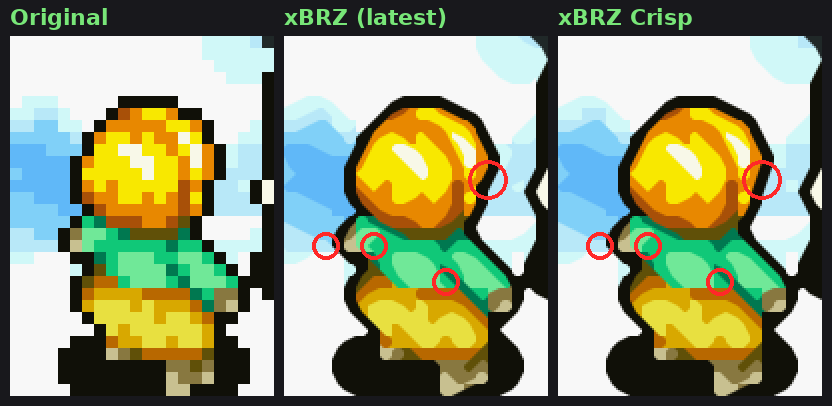
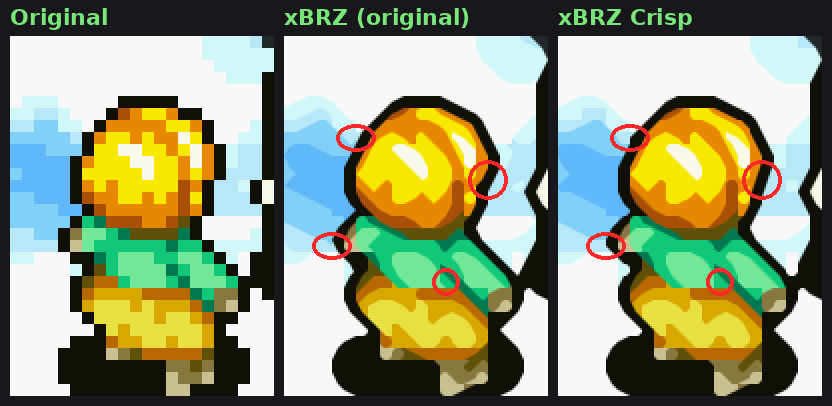
Compare with the original C++ xBRZ: images and comparator now show Zenju's xBRZ 1.9 (default settings) as xBRZ (original), the comparator also offers libretro's shader as xBRZ (libretro), and the README and page explain that xBRZ Crisp is built on libretro's xbrz-freescale-multipass, not on the C++ 

diff --git a/docs/index.html b/docs/index.html
@@ -121,8 +121,9 @@ ol { margin: 0; padding-left: 1.3em; display: grid; gap: 6px; }
   <header class="prose">
     <h1>xBRZ Crisp</h1>
     <p class="lede">xBRZ smooths every corner it finds, so soft shading and textures melt into blobs. xBRZ Crisp only rounds a corner when its two colors are clearly different. Outlines, text and sprites are smoothed as in xBRZ, and grass, foliage and stone keep the pixels the artists drew.</p>
+    <p class="muted"><b>Which xBRZ?</b> xBRZ is <a href="https://sourceforge.net/projects/xbrz/">Zenju's C++ scaler</a>; this page shows it as xBRZ (original). xBRZ Crisp is not built on the C++ code: it is a RetroArch shader built on libretro's <code>xbrz-freescale-multipass</code>, a separate GLSL and slang shader that follows the xBRZ idea with its own code and thresholds. That libretro shader already includes some of xBRZ Crisp's improvements, and you can pick it here too, as xBRZ (libretro).</p>
     <p><a href="#how">See what Crisp adds on top of xBRZ</a></p>
-    <p class="muted">Drag the line to compare. All frames are Game Boy Advance screens at 6x, rendered with the RetroArch shader code. Integer (integer scaling) shows the original pixels. MMPX Adv (MMPX Advanced) is the libretro scalenx shader at 2x, enlarged 3x, and ScaleFX is the libretro scalefx-9x preset at 9x, scaled down to 6x by area averaging. xBRZ (latest) is the current libretro <code>xbrz-freescale-multipass</code>, which already includes improvements that came from xBRZ Crisp.</p>
+    <p class="muted">Drag the line to compare. All frames are Game Boy Advance screens at 6x. xBRZ (original) is Zenju's C++ xBRZ 1.9 at its default settings; the others are rendered with the RetroArch shader code. Integer (integer scaling) shows the original pixels. MMPX Adv (MMPX Advanced) is the libretro scalenx shader at 2x, enlarged 3x, and ScaleFX is the libretro scalefx-9x preset at 9x, scaled down to 6x by area averaging. xBRZ (libretro) is the current libretro <code>xbrz-freescale-multipass</code>, which already includes improvements that came from xBRZ Crisp.</p>
   </header>
 
   <section class="controls" aria-label="Comparison settings">
@@ -138,7 +139,8 @@ ol { margin: 0; padding-left: 1.3em; display: grid; gap: 6px; }
         <button type="button" data-v="original">Integer</button>
         <button type="button" data-v="mmpx">MMPX Adv</button>
         <button type="button" data-v="scalefx">ScaleFX</button>
-        <button type="button" data-v="xbrz">xBRZ (latest)</button>
+        <button type="button" data-v="xbrzcpp">xBRZ (original)</button>
+        <button type="button" data-v="xbrz">xBRZ (libretro)</button>
         <button type="button" data-v="crisp">xBRZ Crisp</button>
       </div>
       <div class="group minc"><span>Crisp contrast</span>
@@ -163,7 +165,8 @@ ol { margin: 0; padding-left: 1.3em; display: grid; gap: 6px; }
         <button type="button" data-v="original">Integer</button>
         <button type="button" data-v="mmpx">MMPX Adv</button>
         <button type="button" data-v="scalefx">ScaleFX</button>
-        <button type="button" data-v="xbrz">xBRZ (latest)</button>
+        <button type="button" data-v="xbrzcpp">xBRZ (original)</button>
+        <button type="button" data-v="xbrz">xBRZ (libretro)</button>
         <button type="button" data-v="crisp">xBRZ Crisp</button>
       </div>
       <div class="group minc"><span>Crisp contrast</span>
@@ -215,7 +218,7 @@ ol { margin: 0; padding-left: 1.3em; display: grid; gap: 6px; }
     </div>
   </div>
   <div class="peekbar"><button class="peek" id="peek" type="button" aria-pressed="false" title="Hold to see the original pixels (or hold the O key)">Hold for Integer</button></div>
-  <p class="hint" id="info">Tip: from 2× to 4× the view scrolls; the line stays where you put it. Arrow keys move the line when it has focus. "Mark differences" outlines in red every spot where the two sides differ. Hold the button under the picture (or the O key) to see the original pixels. xBRZ (latest) is the current libretro <code>xbrz-freescale-multipass</code>, which includes the port fixes and thresholds contributed by xBRZ Crisp since October 20, 2026 (tolerance 15, steep 3.2, dominant 3.8).</p>
+  <p class="hint" id="info">Tip: from 2× to 4× the view scrolls; the line stays where you put it. Arrow keys move the line when it has focus. "Mark differences" outlines in red every spot where the two sides differ. Hold the button under the picture (or the O key) to see the original pixels. xBRZ (original) is Zenju's C++ xBRZ. xBRZ (libretro) is the current libretro <code>xbrz-freescale-multipass</code>, which includes the port fixes and thresholds contributed by xBRZ Crisp since October 20, 2026 (tolerance 15, steep 3.2, dominant 3.8; the C++ xBRZ uses 30, 2.4 and 3.6).</p>
 
   <section class="prose">
     <h2>Presets</h2>
@@ -242,51 +245,52 @@ ol { margin: 0; padding-left: 1.3em; display: grid; gap: 6px; }
       <tbody>
         <tr><td class="mono">XBRZ_MINC</td><td class="num">20</td><td>Minimum color contrast (x/255) for a corner to be rounded. 0 turns it off (the tolerance and steep thresholds below still apply).</td></tr>
         <tr><td class="mono">XBRZ_DIAG</td><td class="num">100</td><td>Maximum color distance (x/255) between the two colors a cut would join. Above it, the corner stays square. 0 turns it off.</td></tr>
-        <tr><td class="mono">XBRZ_TOL</td><td class="num">15</td><td>Equal color tolerance. The reference C++ xBRZ uses 30.</td></tr>
-        <tr><td class="mono">XBRZ_STEEP</td><td class="num">3.2</td><td>Steep and shallow line threshold. The reference C++ xBRZ uses 2.2, which turns 1-pixel steps into slopes; 3.2 keeps letters and 1-pixel details closer to the original.</td></tr>
-        <tr><td class="mono">XBRZ_DOM</td><td class="num">3.8</td><td>Dominant direction threshold. The reference C++ xBRZ uses 3.6; 3.8 keeps small corners close to square instead of cutting them into long tips.</td></tr>
+        <tr><td class="mono">XBRZ_TOL</td><td class="num">15</td><td>Equal color tolerance. The original C++ xBRZ uses 30.</td></tr>
+        <tr><td class="mono">XBRZ_STEEP</td><td class="num">3.2</td><td>Steep and shallow line threshold. The original C++ xBRZ uses 2.4 (2.2 before version 1.9), which turns more 1-pixel steps into slopes; 3.2 keeps letters and 1-pixel details closer to the original.</td></tr>
+        <tr><td class="mono">XBRZ_DOM</td><td class="num">3.8</td><td>Dominant direction threshold. The original C++ xBRZ uses 3.6; 3.8 keeps small corners close to square instead of cutting them into long tips.</td></tr>
       </tbody>
     </table>
   </div>
 
   <section class="prose" id="how">
     <h2>What Crisp adds on top of xBRZ</h2>
+    <p class="muted">The pictures show the original C++ xBRZ. xBRZ Crisp runs the same corner test as xBRZ, with the thresholds listed under Parameters, and then adds the vetoes below.</p>
     <p>xBRZ scales pixel art by asking one question at every corner of every pixel: is this the corner of a shape? If the answer is yes, it cuts the corner with a neighbor's color, and a staircase of pixels becomes a smooth line. That works beautifully on outlines and text. Its weakness is that it says yes too often, so shading, textures and faces get shapes the artist never drew.</p>
     <p>xBRZ Crisp keeps every answer xBRZ gives and adds a few vetoes. A vetoed corner simply stays square, the way the artist drew it. Nothing is blurred and no new colors are made.</p>
 
     <h3>1. Soft shading is not a shape</h3>
-    <figure><img src="img/explain/contrast.png" alt="Ivy in Tales of Phantasia: original, xBRZ (latest) and xBRZ Crisp" loading="lazy"><figcaption>Tales of Phantasia, ivy on a wall. Red circles mark some of the spots where xBRZ and Crisp differ.</figcaption></figure>
+    <figure><img src="img/explain/contrast.png" alt="Ivy in Tales of Phantasia: original, xBRZ (original) and xBRZ Crisp" loading="lazy"><figcaption>Tales of Phantasia, ivy on a wall. Red circles mark some of the spots where xBRZ and Crisp differ.</figcaption></figure>
     <p>In grass, leaves and stone, neighboring pixels differ by only a few shades. xBRZ reads each of those small steps as an edge and rounds it, so the texture melts into wavy blobs. Crisp measures how different the two colors of each corner are (a YCbCr distance out of 255) and leaves the corner square below <code>XBRZ_MINC</code>. Real edges, like outlines, are far above the limit and stay smooth. A corner just below the limit is still rounded when the corners on both sides of it along the same diagonal are, so a diagonal edge has no tooth where its contrast dips for a pixel. Where a line crosses an antialiasing pixel on a strong edge, like the edge of a roof in Golden Sun, both halves of the pixel are cut as in xBRZ, so the pixel becomes part of the diagonal instead of a notch in it.</p>
-    <figure><img src="img/explain/contrast-steps.png" alt="Golden Sun grass: original, xBRZ (latest), Crisp 10, 20 and 30" loading="lazy"><figcaption>Golden Sun, village grass at the three presets.</figcaption></figure>
+    <figure><img src="img/explain/contrast-steps.png" alt="Golden Sun grass: original, xBRZ (original), Crisp 10, 20 and 30" loading="lazy"><figcaption>Golden Sun, village grass at the three presets.</figcaption></figure>
     <p>This limit is the one dial that sets the look: 10 stays closest to xBRZ, 30 keeps the most texture, and 20, the default, sits in between. Up to 20, each step keeps more of the original pixels for little loss of smoothness. Past it, smooth antialiased shapes start to lose more.</p>
 
     <h3>2. Different colors are not joined</h3>
-    <figure><img src="img/explain/diagonal.png" alt="A villager's scarf in Golden Sun: original, xBRZ (latest) and xBRZ Crisp" loading="lazy"><figcaption>Golden Sun, a villager's face and scarf.</figcaption></figure>
+    <figure><img src="img/explain/diagonal.png" alt="A villager's scarf in Golden Sun: original, xBRZ (original) and xBRZ Crisp" loading="lazy"><figcaption>Golden Sun, a villager's face and scarf.</figcaption></figure>
     <p>Cutting a corner joins its two diagonal neighbors into one line. That is right when they share a color, as along a sloped outline. When they are very different, like a purple scarf next to skin, the corner is a meeting point of three colors, not a line, and xBRZ pulls one color into the other: the scarf runs into the face and the hair into the scarf. Crisp only joins diagonal neighbors whose colors are within <code>XBRZ_DIAG</code> (100) of each other.</p>
 
     <h3>3. Dark pixels keep their shape</h3>
-    <figure><img src="img/explain/dark.png" alt="A face in Final Fantasy Tactics Advance: original, xBRZ (latest) and xBRZ Crisp" loading="lazy"><figcaption>Final Fantasy Tactics Advance, eyes under a hood.</figcaption></figure>
+    <figure><img src="img/explain/dark.png" alt="A face in Final Fantasy Tactics Advance: original, xBRZ (original) and xBRZ Crisp" loading="lazy"><figcaption>Final Fantasy Tactics Advance, eyes under a hood.</figcaption></figure>
     <p>Eyes, pupils and outlines are often a single dark pixel wide, and that pixel is what we read as the shape. Where a sloped line would shave a dark pixel with a lighter color, at a meeting of different colors, Crisp keeps the dark pixel whole. The eyes stay the straight strokes the artist drew instead of being rounded into drops.</p>
 
     <h3>4. Lines end the way they were drawn</h3>
-    <figure><img src="img/explain/stripes.png" alt="Harry's robe in Harry Potter: Prisoner of Azkaban: original, xBRZ (latest) and xBRZ Crisp" loading="lazy"><figcaption>Harry Potter: Prisoner of Azkaban, the red trim of Harry's robe.</figcaption></figure>
+    <figure><img src="img/explain/stripes.png" alt="Harry's robe in Harry Potter: Prisoner of Azkaban: original, xBRZ (original) and xBRZ Crisp" loading="lazy"><figcaption>Harry Potter: Prisoner of Azkaban, the red trim of Harry's robe.</figcaption></figure>
     <p>Robes, health bars, frames and windows are built from straight 1-pixel lines. xBRZ rounds their ends and bends them where they meet another line. Crisp keeps a corner square when its blend color runs straight on, and stacked stripes that end together all end square, so the trim stays straight and the collar keeps its shape. A short stripe whose end meets a line running on, like a dark blue line in Minish Cap, lets that line close as in xBRZ.</p>
-    <figure><img src="img/explain/outline.png" alt="A character in Final Fantasy Tactics Advance: original, xBRZ (latest) and xBRZ Crisp" loading="lazy"><figcaption>Final Fantasy Tactics Advance, a character seen from behind.</figcaption></figure>
+    <figure><img src="img/explain/outline.png" alt="A character in Final Fantasy Tactics Advance: original, xBRZ (original) and xBRZ Crisp" loading="lazy"><figcaption>Final Fantasy Tactics Advance, a character seen from behind.</figcaption></figure>
     <p>The vetoes never cut a line short. A blocked corner is still cut when the next corner along the same diagonal is cut, so diagonal lines are drawn to their end, and between two close inner tones the cut runs on up to the dark outline, which stays whole. Where the artist drew a 45-degree diagonal of one color up to a straight line, like a lock of hair or the corner of a fence post, the corner is rounded as in xBRZ, unless that would bend a straight line or stretch a lone dot such as an eye. A thin light stroke that runs on along the diagonal, like the white strokes of letters or a ring with gray antialiasing, is rounded as in xBRZ too, so letters have no square joints.</p>
 
     <h3>5. The artist's antialiasing stays</h3>
-    <figure><img src="img/explain/antialias.png" alt="Yellow hair with a dark outline in Final Fantasy Tactics Advance: original, xBRZ (latest) and xBRZ Crisp" loading="lazy"><figcaption>Final Fantasy Tactics Advance, yellow hair with a dark outline.</figcaption></figure>
+    <figure><img src="img/explain/antialias.png" alt="Yellow hair with a dark outline in Final Fantasy Tactics Advance: original, xBRZ (original) and xBRZ Crisp" loading="lazy"><figcaption>Final Fantasy Tactics Advance, yellow hair with a dark outline.</figcaption></figure>
     <p>Many sprites already have hand-placed in-between pixels that soften a corner, like the dark orange pixels between this black outline and the yellow hair. When one of a corner's colors sits between the other two, Crisp treats it as the artist's antialiasing and uses a stricter limit (92), so xBRZ does not round the same corner a second time. When that in-between pixel is a single step on a diagonal edge, with the far color wrapping around it and the pixel's own color running on along the cut, the corner is rounded as in xBRZ, so shaded edges like Soma's cape in Castlevania run on to their end. A diagonal that ends on a straight edge, like the tip of a lock of Link's hair, is also closed as in xBRZ.</p>
 
     <h3>6. Steps are drawn straight</h3>
-    <figure><img src="img/explain/steps.png" alt="Golden Sun italic dialog text and a rail along a building: original, xBRZ (latest) and xBRZ Crisp" loading="lazy"><figcaption>Golden Sun, italic dialog text (top), and a rail along a building (bottom).</figcaption></figure>
+    <figure><img src="img/explain/steps.png" alt="Golden Sun italic dialog text and a rail along a building: original, xBRZ (original) and xBRZ Crisp" loading="lazy"><figcaption>Golden Sun, italic dialog text (top), and a rail along a building (bottom).</figcaption></figure>
     <p>xBRZ draws only two slopes, 45 degrees and 2:1. A line the artist drew with longer steps, like the stems of Golden Sun's italic letters, a rail or the edge of a roof, comes out bent at every step, and the two sides of a 1-pixel stroke can get different slopes, so the stroke wobbles. Where an edge between clearly different colors climbs in regular steps of 2 to 6 pixels, Crisp cuts each step with one line of the steps' own slope (2:1, 3:1 or 4:1), and the pixel at the thin end of a long step gets a sliver of the same line. Both sides of a stroke run parallel, and a letter's dark shadow runs parallel to its letter. Curves, irregular steps and low-contrast edges like water and wood keep xBRZ's lines.</p>
 
     <h3>What does not change</h3>
-    <figure><img src="img/explain/text.png" alt="Spell menu text in Harry Potter: Prisoner of Azkaban: original, xBRZ (latest) and xBRZ Crisp" loading="lazy"><figcaption>Harry Potter: Prisoner of Azkaban, spell menu.</figcaption></figure>
-    <p>Edges are found exactly as xBRZ finds them, so letters, outlines and large shapes come out as smooth as in xBRZ. The result reads like xBRZ from a distance, with clean round shapes. Up close, textures, faces and interface details look like the original art instead of being repainted.</p>
+    <figure><img src="img/explain/text.png" alt="Spell menu text in Harry Potter: Prisoner of Azkaban: original, xBRZ (original) and xBRZ Crisp" loading="lazy"><figcaption>Harry Potter: Prisoner of Azkaban, spell menu.</figcaption></figure>
+    <p>Edges are found with xBRZ's own test, so letters, outlines and large shapes come out as smooth as in xBRZ. The result reads like xBRZ from a distance, with clean round shapes. Up close, textures, faces and interface details look like the original art instead of being repainted.</p>
     <p>The idea of only joining colors that match along the diagonal comes from <a href="https://github.com/libretro/slang-shaders/tree/master/edge-smoothing/cleanEdge">cleanEdge</a> by torcado. No cleanEdge code is included.</p>
-    <p class="muted">Port details: the shader is based on the libretro <code>xbrz-freescale-multipass</code> port. Blend color ties and the order of the four corners follow the reference C++ xBRZ, the GLSL version takes the output scale from the image size instead of the texture size, and the output pass reads the image from the pass before xBRZ, so it also works after other shaders in a preset.</p>
+    <p class="muted">Port details: xBRZ Crisp started as a set of fixes to libretro's <code>xbrz-freescale-multipass</code>, a shader written for RetroArch separately from <a href="https://sourceforge.net/projects/xbrz/">Zenju's C++ xBRZ</a>, and most of its code has been rewritten since. Blend color ties and the order of the four corners were changed to follow the C++ xBRZ, the GLSL version takes the output scale from the image size instead of the texture size, and the output pass reads the image from the pass before xBRZ, so it also works after other shaders in a preset.</p>
   </section>
 
   <section class="prose">
@@ -315,8 +319,8 @@ ol { margin: 0; padding-left: 1.3em; display: grid; gap: 6px; }
     ["dbz_title", "Dragon Ball Z: Buu's Fury · title"],
     ["dbz_snake", "Dragon Ball Z: Buu's Fury · Snake Way"]
   ];
-  var NAME = { original: "Integer", mmpx: "MMPX Adv", scalefx: "ScaleFX", xbrz: "xBRZ (latest)", crisp: "xBRZ Crisp" };
-  var state = { scene: "gs_village", left: { alg: "xbrz", minc: 10 }, right: { alg: "crisp", minc: 20 }, zoom: 1, pos: 0.5, marks: false };
+  var NAME = { original: "Integer", mmpx: "MMPX Adv", scalefx: "ScaleFX", xbrzcpp: "xBRZ (original)", xbrz: "xBRZ (libretro)", crisp: "xBRZ Crisp" };
+  var state = { scene: "gs_village", left: { alg: "xbrzcpp", minc: 10 }, right: { alg: "crisp", minc: 20 }, zoom: 1, pos: 0.5, marks: false };
 
   var $ = function (id) { return document.getElementById(id); };
   var sel = $("scene"), frame = $("frame"), stage = $("stage"), imgL = $("imgL"), imgR = $("imgR"), cv = $("cvM"), marks = $("marks"), info = $("info");
@@ -332,7 +336,7 @@ ol { margin: 0; padding-left: 1.3em; display: grid; gap: 6px; }
   function src(scene, k) { return "img/" + scene + "-" + k + ".png"; }
 
   // preload the current scene's six images so switching sides is instant
-  function preload(scene) { ["original", "xbrz", "mmpx", "scalefx", "crisp12", "crisp20", "crisp24"].forEach(function (k) { var i = new Image(); i.src = src(scene, k); }); }
+  function preload(scene) { ["original", "xbrzcpp", "xbrz", "mmpx", "scalefx", "crisp12", "crisp20", "crisp24"].forEach(function (k) { var i = new Image(); i.src = src(scene, k); }); }
 
   function setPressed(group, value) {
     Array.prototype.forEach.call(group.querySelectorAll("button"), function (b) { b.setAttribute("aria-pressed", String(b.dataset.v === String(value))); });

diff --git a/README.md b/README.md
@@ -1,9 +1,9 @@
 <p align="center">
-  <img src="comparisons/design/banner.png" alt="xBRZ Crisp: xBRZ on the left, xBRZ Crisp on the right" width="100%">
+  <img src="comparisons/design/banner.png" alt="xBRZ Crisp: the original xBRZ on the left, xBRZ Crisp on the right" width="100%">
 </p>
 
 <p align="center">
-  <b>The smoothness of xBRZ, with respect for every pixel the artist drew.</b><br><br>
+  <b>The smoothness of xBRZ, with respect for every pixel the artist drew.</b><br><sub>Compared with Zenju's original C++ xBRZ. Built on libretro's xBRZ shader for RetroArch.</sub><br><br>
   ✨ Outlines and text come out smooth and sharp, just like xBRZ<br>
   🌿 Grass, foliage, stone and dithering keep their original pixels<br>
   🙂 Faces and small sprites keep their expression, with no fake diagonals<br>
@@ -19,16 +19,19 @@
   <tr>
     <td align="center" width="33%">🎯<br><b>Only clear edges</b><br><sub>A corner is rounded only when its two colors really differ</sub></td>
     <td align="center" width="33%">🌿<br><b>Textures stay intact</b><br><sub>Soft shading no longer melts into blobs</sub></td>
-    <td align="center" width="33%">⚡<br><b>Close to xBRZ's cost</b><br><sub>The extra checks run once per game pixel, not per screen pixel</sub></td>
+    <td align="center" width="33%">⚡<br><b>Close to libretro xBRZ's cost</b><br><sub>The extra checks run once per game pixel, not per screen pixel</sub></td>
   </tr>
 </table>
 </div>
 
+> [!NOTE]
+> **Which xBRZ?** xBRZ is [Zenju's C++ scaler](https://sourceforge.net/projects/xbrz/). The images here compare xBRZ Crisp with that original, version 1.9 at its default settings, labeled **xBRZ (original)**. xBRZ Crisp is not built on the C++ code: it is a RetroArch shader built on libretro's `xbrz-freescale-multipass`, a separate GLSL and slang shader that follows the xBRZ idea with its own code and thresholds. That libretro shader already includes some of xBRZ Crisp's improvements, and the comparison page shows it too, labeled **xBRZ (original)**.
+
 <h2 align="center">🎬 Interactive Comparison</h2>
 
-<a href="https://ele3131.github.io/xBRZ-Crisp/"><img src="comparisons/preview-20.png" alt="Animated comparison in Golden Sun, Castlevania: Aria of Sorrow, Harry Potter: Prisoner of Azkaban and Tales of Phantasia: xBRZ (latest), then xBRZ Crisp 20" width="720"></a>
+<a href="https://ele3131.github.io/xBRZ-Crisp/"><img src="comparisons/preview-20.png" alt="Animated comparison in Golden Sun, Castlevania: Aria of Sorrow, Harry Potter: Prisoner of Azkaban and Tales of Phantasia: xBRZ (original), then xBRZ Crisp 20" width="720"></a>
 
-Pick integer scaling, MMPX Advanced, ScaleFX, xBRZ (latest) or xBRZ Crisp (contrast 10 to 30) on each side, drag the line across 12 Game Boy Advance scenes, zoom in up to 4×, hold a button to see the original pixels, and mark in red every spot where the two sides differ.
+Pick integer scaling, MMPX Advanced, ScaleFX, xBRZ (original), xBRZ (original) or xBRZ Crisp (contrast 10 to 30) on each side, drag the line across 12 Game Boy Advance scenes, zoom in up to 4×, hold a button to see the original pixels, and mark in red every spot where the two sides differ.
 
 <h2 align="center">🌄 Gallery</h2>
 
@@ -45,11 +48,11 @@ Pick integer scaling, MMPX Advanced, ScaleFX, xBRZ (latest) or xBRZ Crisp (contr
 
 Faces keep their expression. Since 1.4, a corner where three different colors meet is no longer cut into a fake diagonal, so Link's eyebrow stays straight instead of being pulled into his eye, and stacked stripes such as health bars end square:
 
-<img src="comparisons/7-faces.png" alt="Link in The Minish Cap, a face in Final Fantasy Tactics Advance and the health bar of Castlevania: Aria of Sorrow: original, xBRZ (latest) and xBRZ Crisp" width="100%">
+<img src="comparisons/7-faces.png" alt="Link in The Minish Cap, a face in Final Fantasy Tactics Advance and the health bar of Castlevania: Aria of Sorrow: original, xBRZ (original) and xBRZ Crisp" width="100%">
 
 Text and portraits keep their shape too, as in the spell menu of Harry Potter: Prisoner of Azkaban:
 
-<img src="comparisons/6-azkaban-menu.png" alt="Spell menu: original, xBRZ (latest), MMPX Advanced and xBRZ Crisp" width="100%">
+<img src="comparisons/6-azkaban-menu.png" alt="Spell menu: original, xBRZ (original), MMPX Advanced and xBRZ Crisp" width="100%">
 
 <sub>More: [other games](comparisons/3-other-games-20.png)</sub>
 
@@ -57,7 +60,7 @@ Text and portraits keep their shape too, as in the spell menu of Harry Potter: P
 
 Three presets, from smoothest to closest to the original art. Load one, or change `XBRZ_MINC` in Quick Menu › Shaders › Shader Parameters:
 
-<img src="comparisons/design/presets-strip.png" alt="Golden Sun grass: original, xBRZ (latest), crisp 10, 20 and 30" width="100%">
+<img src="comparisons/design/presets-strip.png" alt="Golden Sun grass: original, xBRZ (original), crisp 10, 20 and 30" width="100%">
 
 | Preset | `XBRZ_MINC` | Look |
 |---|---|---|
@@ -76,11 +79,11 @@ Three presets, from smoothest to closest to the original art. Load one, or chang
 |---|---|---|
 | `XBRZ_MINC` | 20 | Minimum color contrast (x/255) for a corner to be rounded. 0 turns it off. |
 | `XBRZ_DIAG` | 100 | Maximum color distance (x/255) between the two colors a cut would join. Above it, the corner stays square. 0 turns it off. |
-| `XBRZ_TOL` | 15 | Equal color tolerance. The reference C++ xBRZ uses 30. |
-| `XBRZ_STEEP` | 3.2 | Steep and shallow line threshold. The reference C++ xBRZ uses 2.2, which turns 1-pixel steps into slopes. |
-| `XBRZ_DOM` | 3.8 | Dominant direction threshold. The reference C++ xBRZ uses 3.6; 3.8 keeps small corners close to square instead of cutting them into long tips. |
+| `XBRZ_TOL` | 15 | Equal color tolerance. The original C++ xBRZ uses 30. |
+| `XBRZ_STEEP` | 3.2 | Steep and shallow line threshold. The original C++ xBRZ uses 2.4 (2.2 before version 1.9), which turns more 1-pixel steps into slopes. |
+| `XBRZ_DOM` | 3.8 | Dominant direction threshold. The original C++ xBRZ uses 3.6; 3.8 keeps small corners close to square instead of cutting them into long tips. |
 
-libretro's `xbrz-freescale-multipass` uses the same tolerance, steep and dominant values, with `XBRZ_MINC` and `XBRZ_DIAG` at 0.
+libretro's `xbrz-freescale-multipass` uses the same tolerance, steep and dominant values as xBRZ Crisp, with `XBRZ_MINC` and `XBRZ_DIAG` at 0, so it differs from the original C++ xBRZ in these thresholds as well as in its code.
 
 </details>
 
@@ -91,23 +94,25 @@ libretro's `xbrz-freescale-multipass` uses the same tolerance, steep and dominan
 
 <br>
 
+The pictures show the original C++ xBRZ. xBRZ Crisp runs the same corner test as xBRZ, with the thresholds listed under Parameters, and then applies the rules below.
+
 xBRZ looks at each corner of each pixel and decides whether to round it. xBRZ Crisp keeps every one of those decisions and only says no when rounding would invent a shape the artist never drew. In that case the corner stays square. The red circles mark where the two differ.
 
-<img src="comparisons/8-how-it-works.png" alt="Stone in Tales of Phantasia, a face in Tales of Phantasia and a menu frame in Castlevania: Aria of Sorrow: original, xBRZ (latest) and xBRZ Crisp, with the differences circled in red" width="100%">
+<img src="comparisons/8-how-it-works.png" alt="Stone in Tales of Phantasia, a face in Tales of Phantasia and a menu frame in Castlevania: Aria of Sorrow: original, xBRZ (original) and xBRZ Crisp, with the differences circled in red" width="100%">
 
 1. 🌿 **Soft shading is not a shape** (`XBRZ_MINC`). When the two colors of a corner are closer than the minimum contrast, they are shading or texture, not an edge, so the corner stays square. A corner just below the limit is still rounded when the corners on both sides of it along the same diagonal are, so a diagonal edge has no tooth where its contrast dips. Where a line crosses an antialiasing pixel on a strong edge, like the edge of a roof in Golden Sun, both halves of the pixel are cut as in xBRZ, so the pixel becomes part of the diagonal instead of a notch in it. A long straight line between two stripes, like the antialiasing band along an outline, keeps every corner cut even where its contrast is low, so it has no teeth.
 2. 🎨 **Different colors are not joined** (`XBRZ_DIAG`). Rounding a corner joins the two neighbors on its diagonal. When those are very different colors, the corner is a meeting point, not a line, so it stays square. Dark outlines, eyes and eyebrows keep their full shape. Where the artist stepped an antialiasing pixel along a diagonal edge, like the shaded edge of a cape, the corner is rounded as in xBRZ. The same goes for the tip of a diagonal that ends on a straight edge, like a lock of Link's hair.
 3. 📏 **Lines end the way they were drawn.** Straight lines do not bend where they meet, stacked stripes end square (unless a line meets their end), and diagonal lines run on to their end or up to the outline. A 45-degree diagonal the artist drew, like a lock of hair, and thin light strokes, like the white strokes of letters, are rounded as in xBRZ. A dark shadow that runs under a character's feet closes around them on any floor, flat or textured, and a row of 1-pixel tiles between two walls, like the squares of a gauge, keeps its tiles square.
 4. 📐 **Steps are drawn straight.** xBRZ only draws 45-degree and 2:1 lines. Where an edge climbs in regular steps of 2 to 6 pixels, like the italic letters of Golden Sun, a rail or the edge of a roof, the cut follows the steps' own slope, so both sides of a stroke run parallel and the line does not bend at every step. A letter's dark shadow runs parallel to its letter. Curves, irregular steps and low-contrast edges keep xBRZ's lines.
 
-Edges are still found exactly as xBRZ finds them, so outlines and text are smoothed as before. The diagonal check is inspired by [cleanEdge](https://github.com/libretro/slang-shaders/tree/master/edge-smoothing/cleanEdge) by torcado. The [comparison page](https://ele3131.github.io/xBRZ-Crisp/#how) goes through every rule with more examples.
+Edges are still found with xBRZ's own test, so outlines and text are smoothed as before. The diagonal check is inspired by [cleanEdge](https://github.com/libretro/slang-shaders/tree/master/edge-smoothing/cleanEdge) by torcado. The [comparison page](https://ele3131.github.io/xBRZ-Crisp/#how) goes through every rule with more examples.
 
 </details>
 
 <details>
 <summary>Port details and testing</summary>
 
-The shader is based on the libretro `xbrz-freescale-multipass` port. Blend color ties and the order of the four corners follow the reference C++ xBRZ, the GLSL version takes the output scale from the image size instead of the texture size, and the output pass reads the image from the pass before xBRZ, so it also works after other shaders in a preset (a color correction, for example). It runs in three passes: the first decides every corner once per game pixel, a resolve pass settles the decisions that depend on the neighbors, also once per game pixel, and the output pass only draws the corners.
+xBRZ Crisp started as a set of fixes to libretro's `xbrz-freescale-multipass`, a shader written for RetroArch separately from [Zenju's C++ xBRZ](https://sourceforge.net/projects/xbrz/), and most of its code has been rewritten since. Blend color ties and the order of the four corners were changed to follow the C++ xBRZ, the GLSL version takes the output scale from the image size instead of the texture size, and the output pass reads the image from the pass before xBRZ, so it also works after other shaders in a preset (a color correction, for example). It runs in three passes: the first decides every corner once per game pixel, a resolve pass settles the decisions that depend on the neighbors, also once per game pixel, and the output pass only draws the corners.
 
 The code is shared with plain `xbrz-freescale-multipass`: `tools/make-multipass.py` writes it from these files, with its own title and `XBRZ_MINC` at 0, so it keeps rules 2 and 4 to 7, the ones that fix clear xBRZ errors; the other rules are the crisp look and run only with `XBRZ_MINC` above 0. Each file starts with a numbered list of the rules, and each rule has its own section with the same number in the code.
 
@@ -124,12 +129,12 @@ Tested in RetroArch on Android (gl driver, Game Boy Advance at 6x). The slang ve
 2. In a game, open Quick Menu › Shaders › Load and pick `edge-smoothing/xbrz/xbrz-crisp.slangp` (slang) or `xbrz/xbrz-crisp.glslp` (glsl). Use `xbrz-crisp-10` or `xbrz-crisp-30` for the other presets.
 3. Save it with Quick Menu › Shaders › Save › Save Global Preset, or per game with Save Game Preset.
 
-<h2 align="center">🤝 Giving back to xBRZ</h2>
+<h2 align="center">🤝 Giving back to libretro</h2>
 
-Part of xBRZ Crisp is now in xBRZ itself. Starting with our first pull request on October 20, 2026, libretro's `xbrz-freescale-multipass` has taken in its port fixes, tuned thresholds and lighter output pass, plus the `xbrz-crisp` preset ([glsl #576](https://github.com/libretro/glsl-shaders/pull/576), [#577](https://github.com/libretro/glsl-shaders/pull/577), [slang #971](https://github.com/libretro/slang-shaders/pull/971), [#973](https://github.com/libretro/slang-shaders/pull/973)). The comparisons here use that improved version, labeled xBRZ (latest).
+Part of xBRZ Crisp is now in libretro's xBRZ shader. Starting with our first pull request on October 20, 2026, libretro's `xbrz-freescale-multipass` has taken in its port fixes, tuned thresholds and lighter output pass, plus the `xbrz-crisp` preset ([glsl #576](https://github.com/libretro/glsl-shaders/pull/576), [#577](https://github.com/libretro/glsl-shaders/pull/577), [slang #971](https://github.com/libretro/slang-shaders/pull/971), [#973](https://github.com/libretro/slang-shaders/pull/973)). None of these changes are in the original C++ xBRZ. The comparison page shows this libretro version as xBRZ (libretro), next to the original.
 
 <h2 align="center">⚖ License</h2>
 
-xBRZ is © Zenju and distributed under the GNU General Public License v3, as noted in the shader headers. Hyllian's xBR vertex code and texel mapping are under the MIT-style license included there. The similar diagonal check is inspired by torcado's cleanEdge (MIT license); no cleanEdge code is included.
+xBRZ is © Zenju, who wrote the [original C++ version](https://sourceforge.net/projects/xbrz/), and is distributed under the GNU General Public License v3; libretro's shader and xBRZ Crisp keep that license, as noted in the shader headers. Hyllian's xBR vertex code and texel mapping are under the MIT-style license included there. The similar diagonal check is inspired by torcado's cleanEdge (MIT license); no cleanEdge code is included.
 
 <sub>Developed with the help of Claude (Anthropic).</sub>
